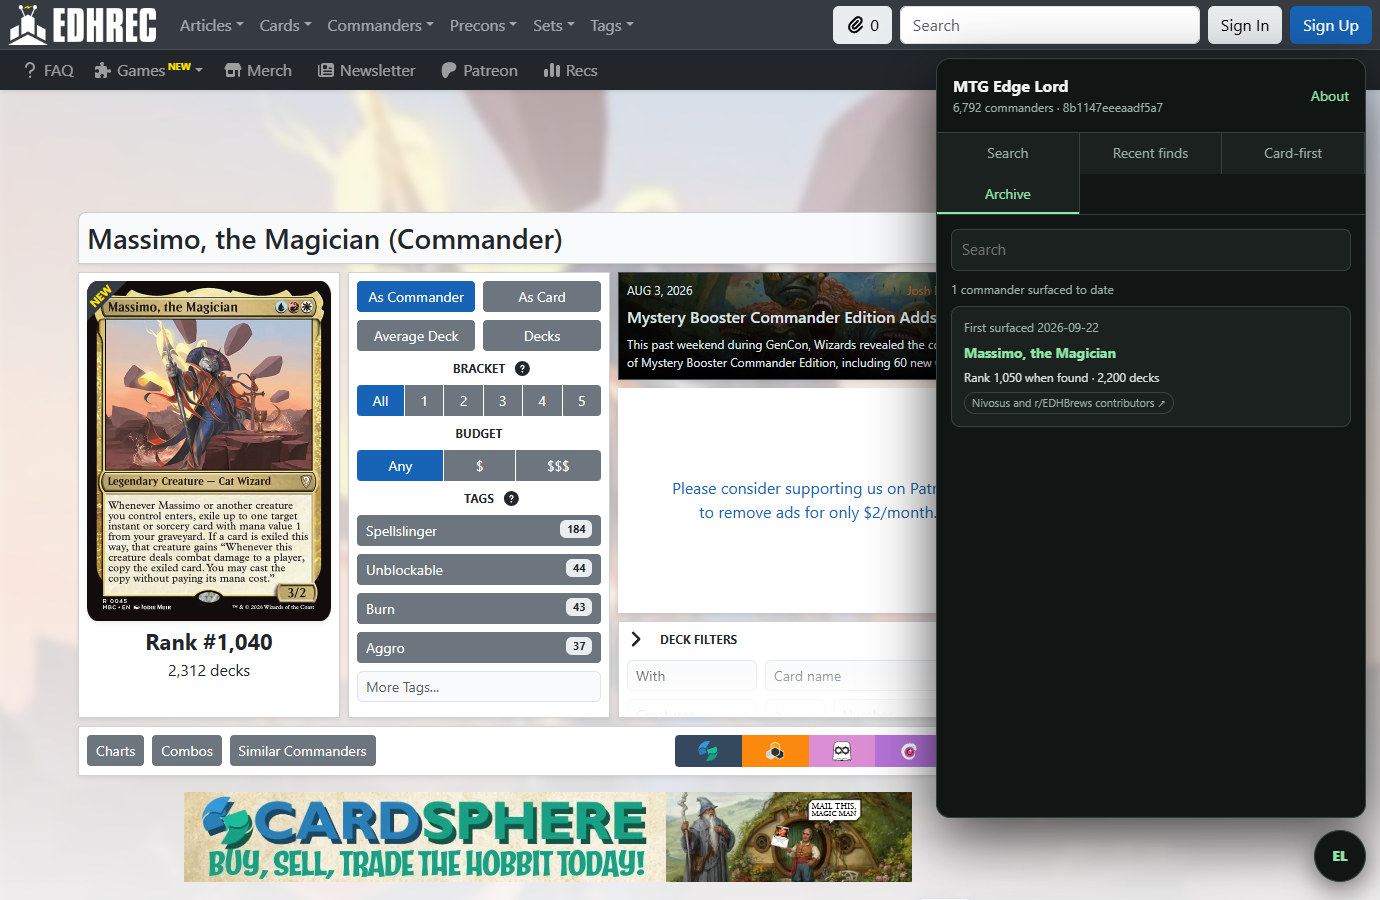
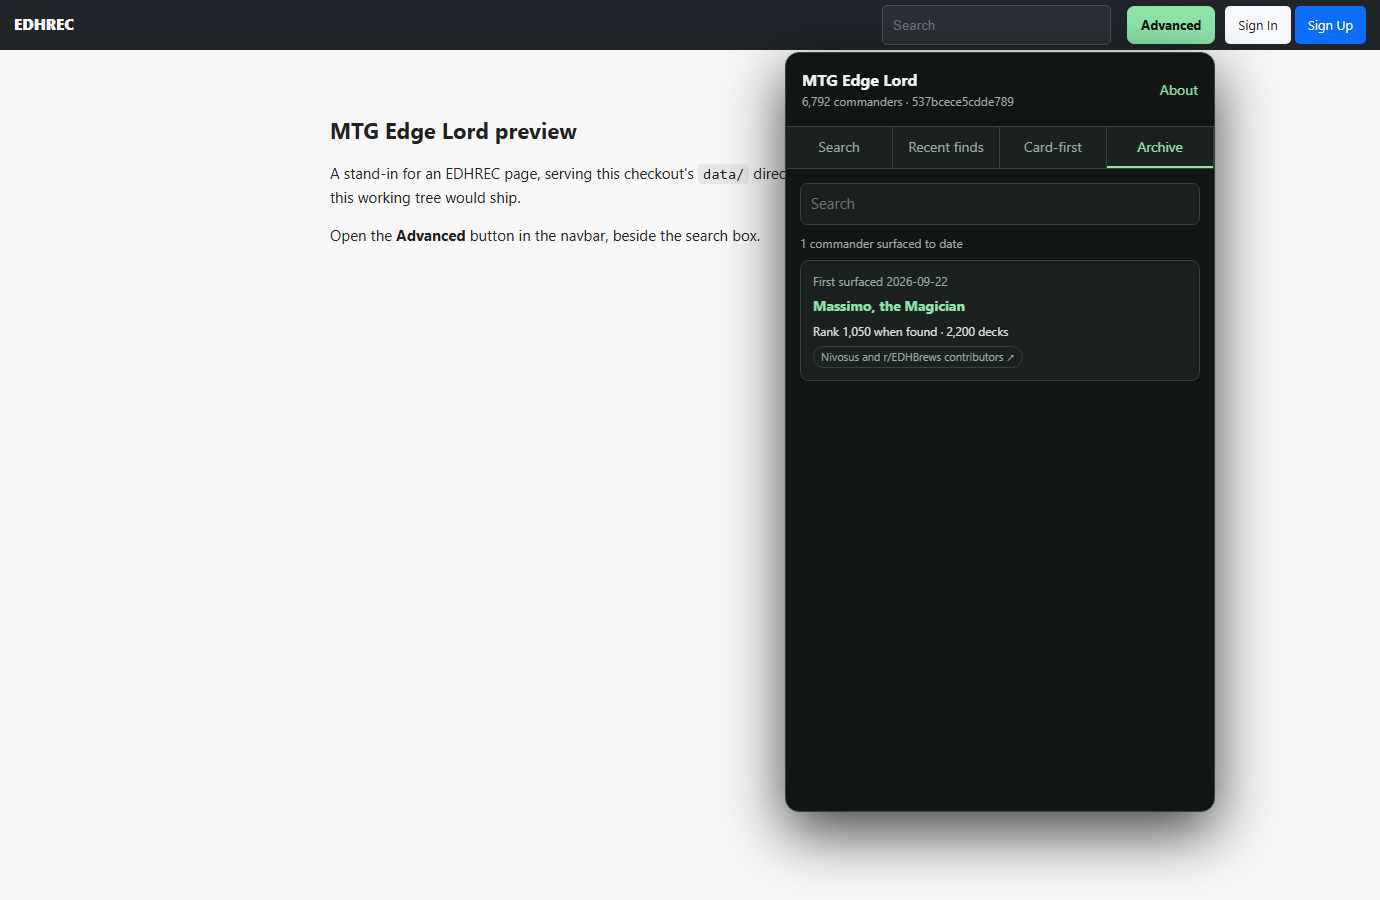
Make the screenshots a command, and take them again
The README's screenshots showed the card design that was replaced
yesterday: a picture of software that no longer exists. They were taken by
hand, which is why nobody retook them.

`npm run screenshots` drives the preview harness — the same server that
serves this checkout's data/ — through an installed Chrome over DevTools,
and writes all four. The page raises a flag when what the shot is of is
actually on screen, because the first attempt photographed the word
"Loading…" and a one-shot capture has no way to wait.

Adds a fourth: the verdict banner on a commander page, which the README
described and never showed.

diff --git a/scripts/screenshots.js b/scripts/screenshots.js
@@ -1,0 +1,181 @@
+import { spawn } from "node:child_process";
+import { access, mkdir, writeFile } from "node:fs/promises";
+import path from "node:path";
+import { fileURLToPath } from "node:url";
+
+/**
+ * Regenerates the README screenshots from the preview harness.
+ *
+ *   npm run build && npm run screenshots
+ *
+ * The screenshots are the product's shop window, and a UI change silently
+ * makes them a picture of software that no longer exists — which is exactly
+ * what happened to the first set. Generating them from the same harness that
+ * serves this checkout's `data/` makes refreshing them a command rather than
+ * an afternoon, so there is no excuse for a stale one.
+ *
+ * Chrome does the capturing because it is already on the machine. There is no
+ * headless browser in `devDependencies` and this is not a reason to add one.
+ */
+const root = path.resolve(path.dirname(fileURLToPath(import.meta.url)), "..");
+const port = Number(process.env.PORT) || 8749;
+// One Chrome per shot, each on its own debugging port: a killed process does
+// not release its port in time for the next one to claim it.
+let devtoolsPort = port + 1;
+const size = { width: 1380, height: 900 };
+
+/** Each shot names the tab the harness should open. No tab means the panel stays shut. */
+const SHOTS = [
+  { file: "search.png", open: "search" },
+  { file: "finds.png", open: "discover" },
+  { file: "archive.png", open: "archive" },
+  { file: "commander-page.png", open: null }
+];
+
+const CHROME_CANDIDATES = [
+  process.env.CHROME_PATH,
+  "C:/Program Files/Google/Chrome/Application/chrome.exe",
+  "C:/Program Files (x86)/Google/Chrome/Application/chrome.exe",
+  "C:/Program Files (x86)/Microsoft/Edge/Application/msedge.exe",
+  "C:/Program Files/Microsoft/Edge/Application/msedge.exe",
+  "/Applications/Google Chrome.app/Contents/MacOS/Google Chrome",
+  "/usr/bin/google-chrome",
+  "/usr/bin/chromium"
+].filter(Boolean);
+
+const chrome = await firstExisting(CHROME_CANDIDATES);
+if (!chrome) {
+  console.error(`No Chrome or Edge found. Set CHROME_PATH to the executable and run this again.`);
+  process.exit(1);
+}
+await access(path.join(root, "mtg-edge-lord.user.js")).catch(() => {
+  console.error("mtg-edge-lord.user.js is missing. Run `npm run build` first.");
+  process.exit(1);
+});
+
+const server = await startPreview();
+const out = path.join(root, "docs", "screenshots");
+await mkdir(out, { recursive: true });
+try {
+  for (const shot of SHOTS) {
+    const url = `http://localhost:${port}/${shot.open ? `?open=${shot.open}` : ""}`;
+    await capture(url, path.join(out, shot.file));
+    console.log(`docs/screenshots/${shot.file}`);
+  }
+} finally {
+  server.kill();
+}
+
+function startPreview() {
+  return new Promise((resolve, reject) => {
+    const child = spawn(process.execPath, [path.join(root, "scripts", "preview.js")], {
+      env: { ...process.env, PORT: String(port) },
+      stdio: ["ignore", "pipe", "inherit"]
+    });
+    child.stdout.on("data", (chunk) => { if (String(chunk).includes("preview on")) resolve(child); });
+    child.on("exit", (code) => reject(new Error(`preview server exited with ${code}`)));
+  });
+}
+
+/**
+ * Drives Chrome over DevTools rather than taking a one-shot `--screenshot`.
+ *
+ * The panel fetches, decodes and renders 6,800 commanders, and the harness
+ * then clicks its way to a tab. A one-shot capture has no way to wait for
+ * that, and the first attempt photographed the word "Loading…". So the page
+ * raises `data-ready` when what the shot is *of* is actually on screen, and
+ * the shutter waits for it.
+ */
+async function capture(url, file) {
+  devtoolsPort += 1;
+  const chromeProcess = spawn(chrome, [
+    "--headless=new",
+    "--disable-gpu",
+    "--hide-scrollbars",
+    "--no-first-run",
+    "--no-default-browser-check",
+    `--user-data-dir=${path.join(root, "node_modules", ".cache", "screenshot-profile")}`,
+    `--window-size=${size.width},${size.height}`,
+    "--force-device-scale-factor=1",
+    `--remote-debugging-port=${devtoolsPort}`,
+    url
+  ], { stdio: ["ignore", "ignore", "ignore"] });
+
+  try {
+    const socket = await connect(await pageTarget());
+    // The window size Chrome is given is not the viewport it renders: the
+    // shots came back 1364x805. Pinning the metrics makes every capture the
+    // same size as the last one, whatever the browser decides to do.
+    await socket.send("Emulation.setDeviceMetricsOverride", { ...size, deviceScaleFactor: 1, mobile: false });
+    await socket.ready(`document.documentElement.dataset.ready === "true"`);
+    const { data } = await socket.send("Page.captureScreenshot", { format: "png" });
+    await writeFile(file, Buffer.from(data, "base64"));
+    socket.close();
+  } finally {
+    chromeProcess.kill();
+  }
+}
+
+/** The debugging endpoint comes up a moment after the process does. */
+async function pageTarget(deadline = Date.now() + 15000) {
+  while (Date.now() < deadline) {
+    try {
+      const targets = await (await fetch(`http://127.0.0.1:${devtoolsPort}/json/list`)).json();
+      const page = targets.find((target) => target.type === "page" && target.webSocketDebuggerUrl);
+      if (page) return page.webSocketDebuggerUrl;
+    } catch {
+      // Not listening yet.
+    }
+    await delay(150);
+  }
+  throw new Error("Chrome never opened a DevTools endpoint");
+}
+
+function connect(endpoint) {
+  const socket = new WebSocket(endpoint);
+  const pending = new Map();
+  let id = 0;
+
+  socket.addEventListener("message", (event) => {
+    const message = JSON.parse(event.data);
+    pending.get(message.id)?.(message.result);
+    pending.delete(message.id);
+  });
+
+  const send = (method, params = {}) => new Promise((resolve) => {
+    id += 1;
+    pending.set(id, resolve);
+    socket.send(JSON.stringify({ id, method, params }));
+  });
+
+  /** Polls an expression in the page until it is true, or gives up and shoots anyway. */
+  const ready = async (expression, deadline = Date.now() + 20000) => {
+    while (Date.now() < deadline) {
+      const { result } = await send("Runtime.evaluate", { expression, returnByValue: true });
+      if (result?.value === true) return;
+      await delay(150);
+    }
+    console.warn(`  timed out waiting for the page to settle; capturing as-is`);
+  };
+
+  return new Promise((resolve, reject) => {
+    socket.addEventListener("open", () => resolve({ send, ready, close: () => socket.close() }));
+    socket.addEventListener("error", () => reject(new Error(`Could not reach ${endpoint}`)));
+  });
+}
+
+function delay(ms) {
+  return new Promise((resolve) => setTimeout(resolve, ms));
+}
+
+async function firstExisting(candidates) {
+  for (const candidate of candidates) {
+    try {
+      await access(candidate);
+      return candidate;
+    } catch {
+      // Next candidate. A missing browser is only fatal once they all are.
+    }
+  }
+  return null;
+}

diff --git a/scripts/preview.js b/scripts/preview.js
@@ -60,8 +60,42 @@ window.fetch = (input, init) => {
   for (const base of BASES) if (url.startsWith(base)) url = url.replace(base, "/data");
   return realFetch(url, init);
 };
-// Route detection reads the path, so give it a commander page to read.
-history.replaceState({}, "", "/commanders/massimo-the-magician");
+// Route detection reads the path, so give it a commander page to read —
+// except when a shot is of the panel, which is a thing you open anywhere on
+// EDHREC. Staying on a non-commander route keeps that shot to one subject.
+const open = new URLSearchParams(location.search).get("open");
+if (!open) history.replaceState({}, "", "/commanders/massimo-the-magician");
+
+// ?open=<tab> drives the panel for a repeatable screenshot — see
+// scripts/screenshots.js. Everything it touches lives in a shadow root the
+// userscript owns, so it polls rather than assuming anything has mounted.
+const started = Date.now();
+if (!open) {
+  // The commander-page shot waits on the insight banner instead of the panel.
+  const wait = setInterval(() => {
+    if (document.getElementById("mtg-edge-lord-insight")?.shadowRoot?.querySelector("article")) {
+      document.documentElement.dataset.ready = "true";
+      clearInterval(wait);
+    } else if (Date.now() - started > 15000) clearInterval(wait);
+  }, 120);
+}
+if (open) {
+  const tick = setInterval(() => {
+    if (Date.now() - started > 15000) return clearInterval(tick);
+
+    const toggle = document.getElementById("mtg-edge-lord-button")?.shadowRoot?.getElementById("toggle");
+    const panel = document.getElementById("mtg-edge-lord-root")?.shadowRoot;
+    if (!toggle || !panel) return;
+    if (panel.getElementById("panel").hidden) return toggle.click();
+    if (!panel.querySelector("#results")) return;
+    const tab = panel.querySelector('nav button[data-tab="' + open + '"]');
+    if (tab && !tab.classList.contains("active")) return tab.click();
+    if (panel.querySelector("#results .card, #results .empty")) {
+      document.documentElement.dataset.ready = "true";
+      clearInterval(tick);
+    }
+  }, 120);
+}
 </script>
 <script src="/mtg-edge-lord.user.js"></script>
 </body></html>`;

diff --git a/README.md b/README.md
@@ -4,7 +4,7 @@ MTG Edge Lord is an off-meta Commander discovery layer for [EDHREC](https://edhr
 
 It runs as a panel over EDHREC itself. The **Advanced** button in EDHREC's own navbar, between the search box and the account buttons, drops it open on any `edhrec.com` page.
 
-![The search panel open over an EDHREC commander page, filtered to the rank 1,000–3,000 band and sorted by Edge score](docs/screenshots/search.png)
+![The search panel open over EDHREC, sorted by Edge score, each result carrying its printed mana cost, its score and tier, and a question mark holding the reasoning](docs/screenshots/search.png)
 
 ## What it does
 
@@ -15,6 +15,8 @@ The Edge score combines obscurity with evidence that the commander actually work
 Each result is a card: the name, what it costs in printed mana symbols, the score, how obscure it is, and what it plays like. The card itself opens the commander on EDHREC; the `?` in its corner unfolds the reasoning behind the score, the quality components, and the cards that want to be in the deck.
 
 **On the commander's own page.** Follow a card through to EDHREC and the verdict follows you: a banner above the page repeats the score and why it was given, at the moment you are actually deciding whether to build the thing. Dismiss it and it stays dismissed for that commander.
+
+![The Edge Lord banner above an EDHREC commander page, showing the score, tier, printed mana cost, rank and deck count, and the reasons behind the score](docs/screenshots/commander-page.png)
 
 **Edge Lord discovery.** A daily feed of off-meta commanders that demonstrably work, found by a scheduled job that reads public community sources and judges what it finds. The quality bar is the brand: cool, different, still competitive — not jank.
 
@@ -64,6 +66,7 @@ Useful commands:
 - `npm run research:network` — run every connector against the live sources. `-- --pages=N` and `-- --commanders=N` shrink the rotated crawls for a quick local run.
 - `npm run build` — bundle `src/userscript/` to the installable root userscript.
 - `npm run preview` — serve the built userscript against this checkout's `data/` on <http://localhost:8731>, so a data or UI change can be seen without deploying.
+- `npm run screenshots` — recapture the README screenshots from that same harness, using an installed Chrome or Edge. Run it after any UI change: a stale screenshot is a picture of software that no longer exists.
 - `npm test` — schema, scoring, normalization, archive, and relationship tests.
 - `npm run validate` — verify generated data against schemas and manifest metadata.
 
